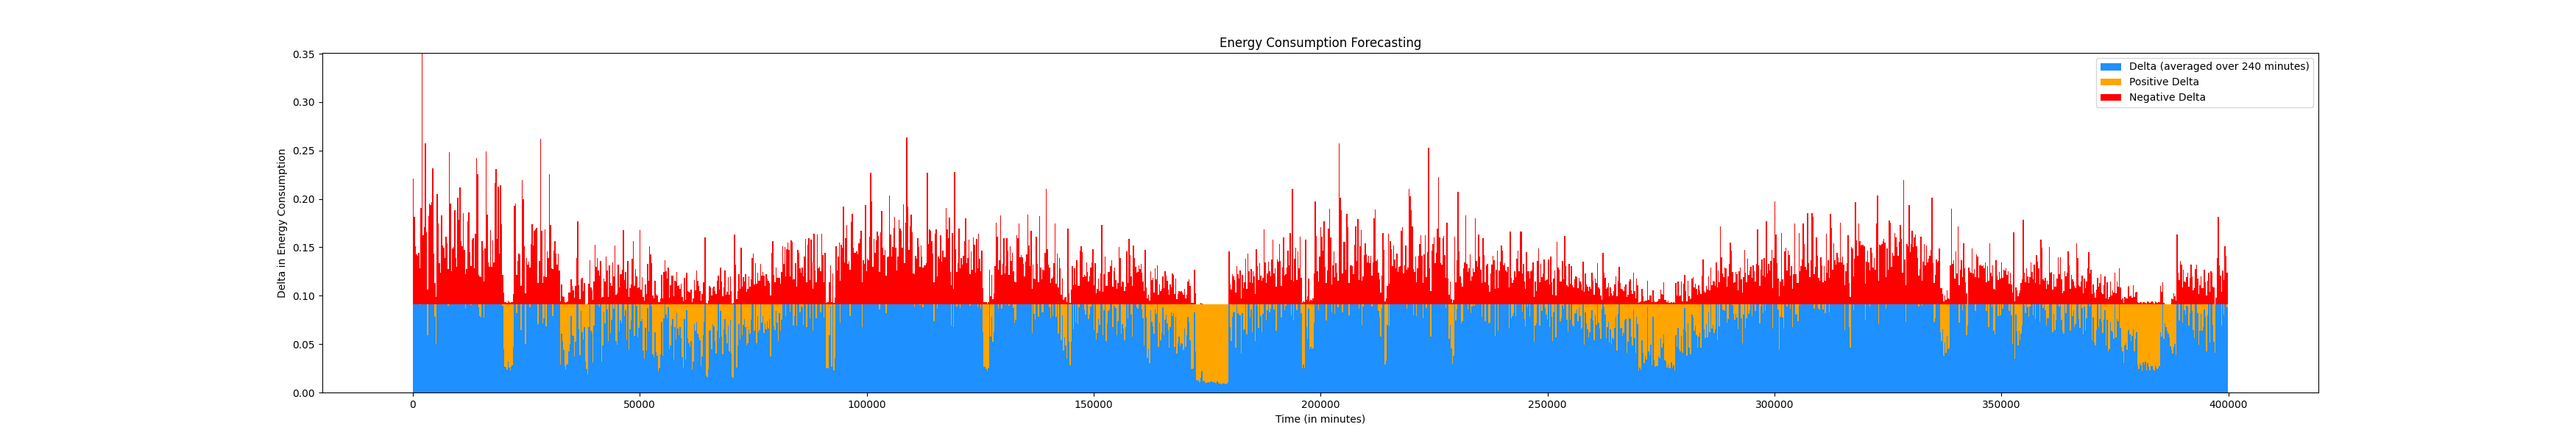
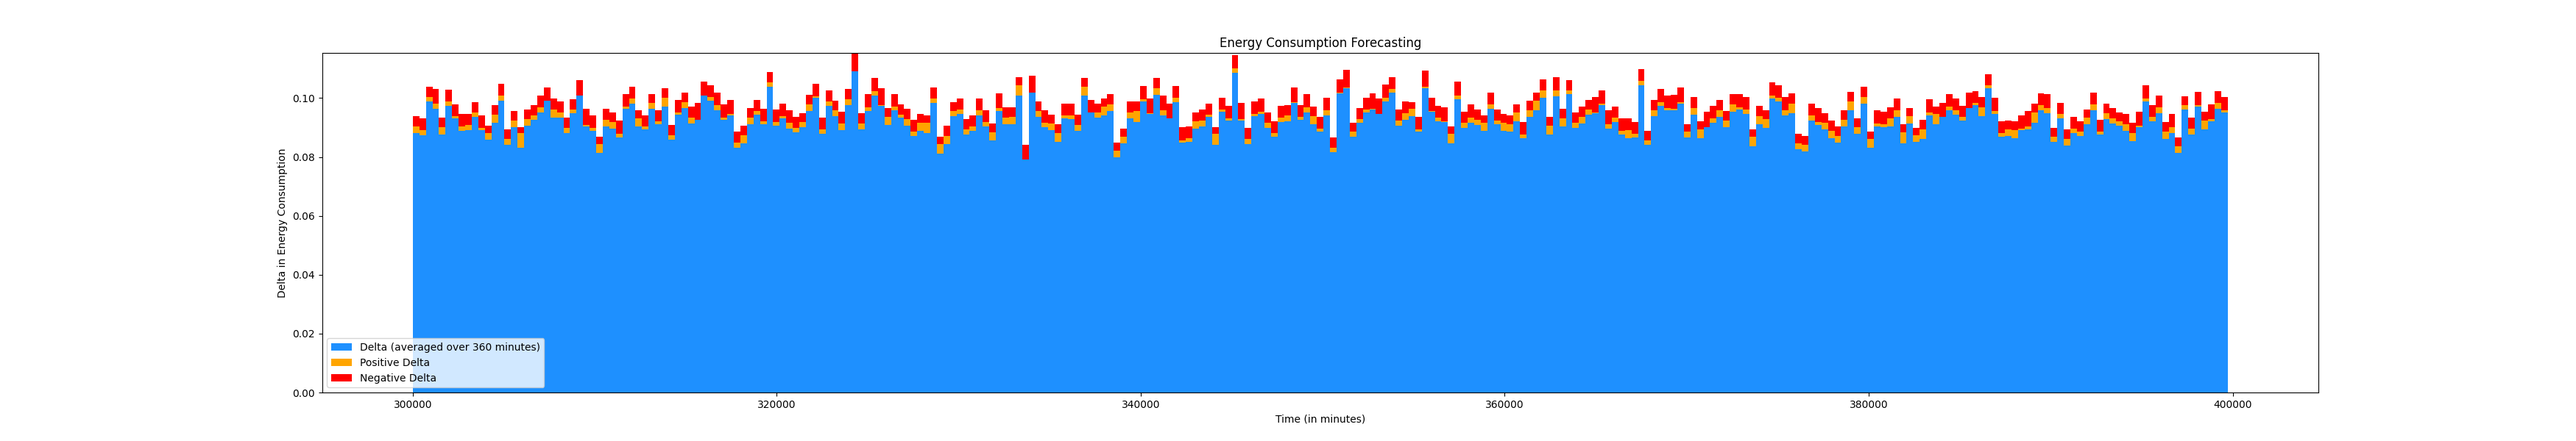
.

diff --git a/household_power_consumption/household_energy_consumption.py b/household_power_consumption/household_energy_consumption.py
@@ -10,6 +10,7 @@ from torch.optim.lr_scheduler import ReduceLROnPlateau
 import matplotlib.pyplot as plt
 from torch.utils.data import DataLoader, TensorDataset
 from sklearn.preprocessing import MinMaxScaler
+from sklearn.model_selection import train_test_split
 from sklearn.metrics import mean_squared_error
 
 def main():
@@ -18,25 +19,26 @@ def main():
     mlflow.set_tracking_uri('http://127.0.0.1:5000')
     mlflow.set_experiment('household-energy-consumption')
     with mlflow.start_run():
-        lr = 0.01
+        lr = 0.001
         mlflow.log_metric('lr', lr)
     
-        training, validation = load_dataset('household_power_consumption.txt')
-        seq_n = 24
-        X_train, y_train = create_sequences(training, seq_n)
-        X_test, y_test = create_sequences(validation, seq_n)
+        data = load_dataset('household_power_consumption.txt')
+        seq_length = 64
+        X, y = create_sequences(data, seq_length)
+        
+        train_size = 0.8
         global train_loader, test_loader
-        train_loader, test_loader = create_data_loaders(X_train, y_train, X_test, y_test)
+        train_loader, test_loader = create_data_loaders(X, y, train_size)
         
         global model
-        model = EnergyConsumptionModel(X_train.shape[2]).to(device)
+        model = EnergyConsumptionModel(X.shape[2]).to(device)
         criterion = nn.MSELoss()
         optimizer = optim.Adam(model.parameters(), lr = lr)
         scheduler = ReduceLROnPlateau(optimizer, 'min', factor=0.1, patience=5)
         
         predict = train_model(model, train_loader, criterion, optimizer, scheduler, epochs=20)
         
-        model_name = "pytorch_prediction_model.pkl"
+        model_name = 'pytorch_prediction_model.pkl'
 
         joblib.dump(value = predict, filename = model_name)
         mlflow.end_run()
@@ -44,7 +46,7 @@ def main():
 if __name__ == '__main__':
     main()
 
-def load_dataset(dataset, frac_training = 0.8):
+def load_dataset(dataset):
     df = pd.read_csv(
         dataset,
         sep = ';', parse_dates = {'datetime':['Date', 'Time']}, low_memory = False, 
@@ -52,7 +54,6 @@ def load_dataset(dataset, frac_training = 0.8):
     )
 
     df.set_index('datetime', inplace = True)
-    df.isna().values.any()
 
     df.interpolate(inplace = True) # Filling missing values by interpolation
 
@@ -63,10 +64,7 @@ def load_dataset(dataset, frac_training = 0.8):
         columns=df.columns, 
         index=df.index
     )
-    training = scaled_data.sample(frac = frac_training, random_state = 123456)
-    validation = scaled_data.drop(training.index)
-    
-    return training, validation
+    return scaled_data
 
 # Creating sequences for time-series forecasting
 def create_sequences(data, seq_length):
@@ -91,7 +89,8 @@ def create_sequences(data, seq_length):
         ys.append(y)
     return np.array(xs), np.array(ys)
 
-def create_data_loaders(X_train, y_train, X_test, y_test):
+def create_data_loaders(X, y, train_size):
+    X_train, X_test, y_train, y_test = train_test_split(X, y, train_size = train_size)
     X_train_tensors = torch.tensor(X_train, dtype=torch.float32).to(device)
     y_train_tensors = torch.tensor(y_train, dtype=torch.float32).to(device)
     X_test_tensors = torch.tensor(X_test, dtype=torch.float32).to(device)
@@ -102,34 +101,62 @@ def create_data_loaders(X_train, y_train, X_test, y_test):
     test_loader = DataLoader(test, batch_size=64, shuffle=False)
     return train_loader, test_loader
 
-# Model construction
 class EnergyConsumptionModel(nn.Module):
     def __init__(self, input_dim):
         super(EnergyConsumptionModel, self).__init__()
         self.fc0 = nn.Linear(input_dim, 128)
         self.fc1 = nn.Linear(128, 64)
         self.lstm1 = nn.LSTM(64, 64, batch_first=True)
-        self.attention_fc = nn.Linear(64, 1)
+        self.attention_fc = nn.Linear(64, 64)
         self.dropout = nn.Dropout(0.25)
         self.bn = nn.BatchNorm1d(64)
         self.fc2 = nn.Linear(64, 32)
         self.fc3 = nn.Linear(32, 1)
         
-    def attention(self, lstm_out):
-        weights = F.softmax(self.attention_fc(lstm_out), dim=1)
-        attended_output = (lstm_out * weights).sum(dim=1)
-        return attended_output
+    def attention(self, input):
+        attention_scores = self.attention_fc(input)
+        attention_weights = F.softmax(attention_scores, dim=-1)  # Normalize along features
+        return attention_weights
     
     def forward(self, x):
         x = F.relu(self.fc0(x))
         x = F.relu(self.fc1(x))
+        
         lstm_out, _ = self.lstm1(x)
-        attended_output = self.attention(lstm_out)
-        x = self.dropout(attended_output)
+        attention_weights = self.attention(lstm_out)
+        
+        enhanced_features = attention_weights * lstm_out
+        enhanced_features = enhanced_features[:, -1, :]
+        
+        x = self.dropout(enhanced_features)
         x = self.bn(x)
+        
         x = F.relu(self.fc2(x))
         out = self.fc3(x)
         return out
+
+# Model construction
+# class EnergyConsumptionModel(nn.Module):
+#     def __init__(self, input_dim):
+#         super(EnergyConsumptionModel, self).__init__()
+#         self.fc0 = nn.Linear(input_dim, 100)
+#         self.fc1 = nn.Linear(100, 50)
+#         self.lstm1 = nn.LSTM(50, 50, batch_first=True)
+#         self.dropout = nn.Dropout(0.25)
+#         self.bn = nn.BatchNorm1d(50)
+#         self.fc2 = nn.Linear(50, 25)
+#         self.fc3 = nn.Linear(25, 1)
+
+#     def forward(self, x):
+#         x = F.relu(self.fc0(x))
+#         x = F.relu(self.fc1(x))
+#         lstm_out, _ = self.lstm1(x)
+#         lstm_out = lstm_out[:, -1, :] # Output extraction from LSTM layer
+#         lstm_out = self.dropout(lstm_out)
+#         lstm_out = self.bn(lstm_out)
+#         x = F.relu(self.fc2(lstm_out))
+#         out = self.fc3(x)
+#         return out
 
 def train_model(model, train_loader, criterion, optimizer, scheduler, epochs = 20):
     model.train()
@@ -143,12 +170,13 @@ def train_model(model, train_loader, criterion, optimizer, scheduler, epochs = 2
             optimizer.step()
             running_loss += loss.item()
         avg_loss = running_loss / len(train_loader)
-        mlflow.log_metric('avg_loss', avg_loss)
+        mlflow.log_metric('avg_loss', avg_loss, step = epoch)
         print(f'Epoch {epoch+1}/{epochs}, Loss: {running_loss / len(train_loader)}')
         scheduler.step(avg_loss)
+        mlflow.log_metric('lr', scheduler.get_last_lr()[0], step = epoch)
         with torch.inference_mode():
             actuals, predictions, mse = get_model_metrics(model, test_loader)
-            mlflow.log_metric('mse', mse)
+            mlflow.log_metric('mse', mse, step = epoch)
 
 def get_model_metrics(model, test_loader):
     model.eval()
@@ -196,7 +224,7 @@ def plot_nn_loss(start, end, chunk_size = 360):
     plt.savefig('nn_loss.png')
 
 def plot_deltas(start, end, chunk_size = 360):
-    averaged_actuals, averaged_deltas, averaged_positive_deltas, averaged_negative_deltas, x_values = compute_delta(start, end)
+    averaged_actuals, averaged_deltas, averaged_positive_deltas, averaged_negative_deltas, x_values = compute_delta(start, end, chunk_size)
     plt.figure(figsize=(35, 6))
     plt.bar(x_values, averaged_deltas, width=chunk_size, align='edge', label=f'Delta (averaged over {chunk_size} minutes)')
     plt.legend()
